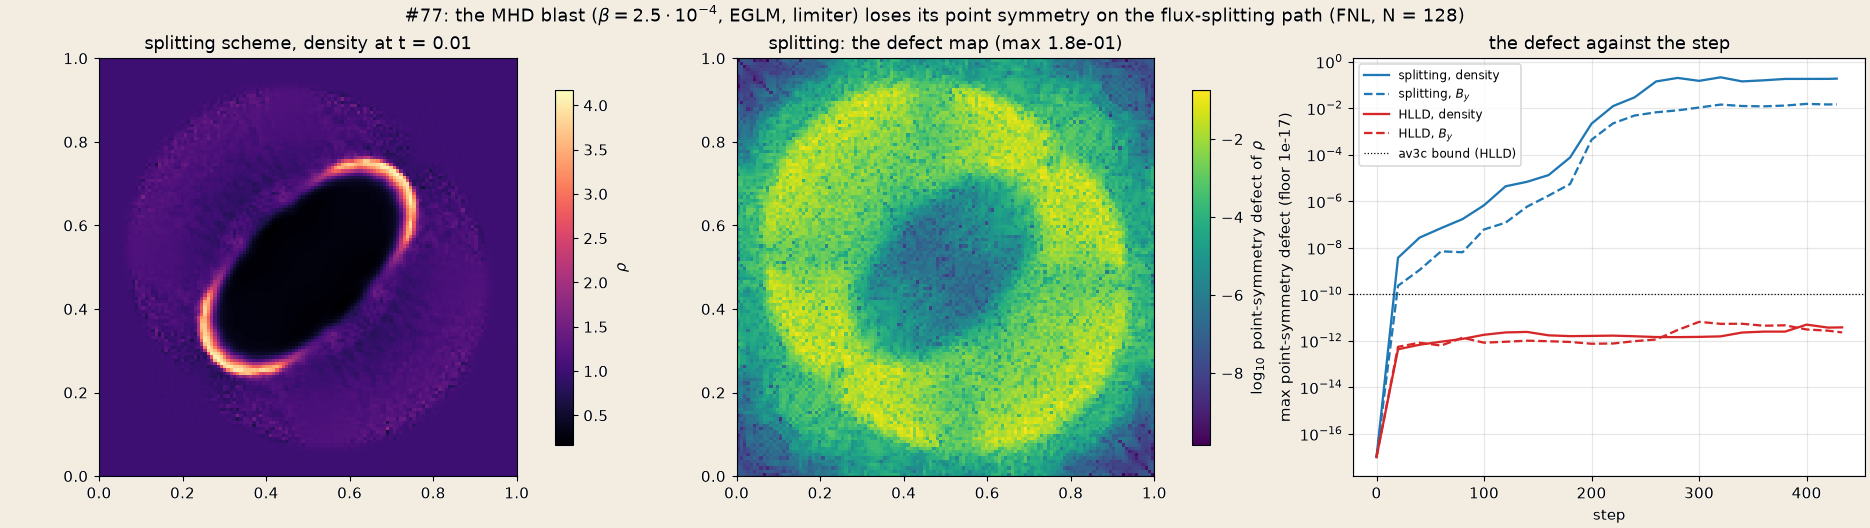
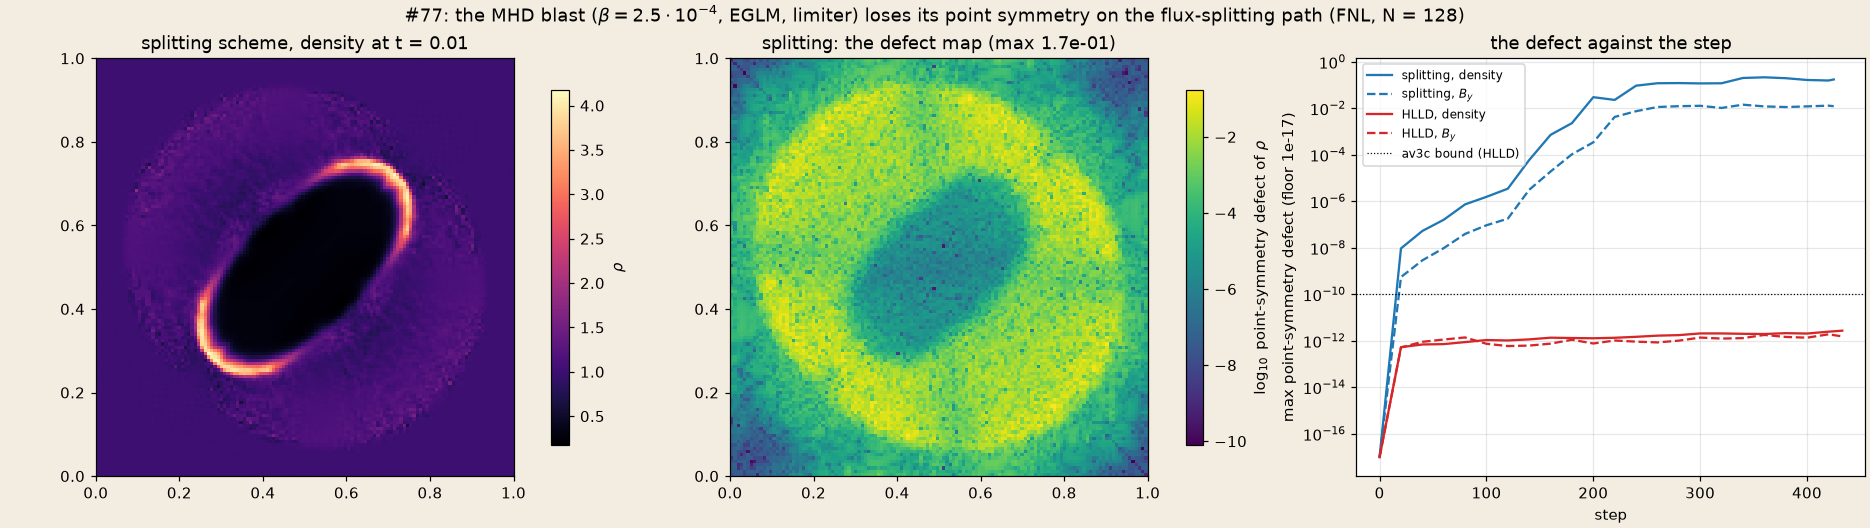
docs(flume): the limited-blast verification pages rerun after the stage step of #134 D4
#134 D4 limits each SSP-54 stage for its own forward-Euler step. Three
verification pages besides the positivity limiter's run the limited
Balsara-Spicer blast on SSP-54 and quoted pre-D4 numbers.

- runtime-amr/accuracy.md: av3b (shock radius 0.4297 on every
  half-axis, 0 finest cells from uniform-128; rho drift 1.1e-16; rE
  5.386e-5 against 5.388e-5) and av3c (symmetry 4.6e-12 tracked, 4.8e-12
  uniform; FNL 6.0e-12, 2.7e-12) rerun; av8 not rerun.
- runtime-amr/mhd-blast-symmetry.md: mhd-blast-symmetry.png redrawn
  from make_doc_runs.sh blast77 on FNL (the splitting defect reaches 0.1
  by step 260 and stays at 0.1-0.22; HLLD 5e-13 to 3e-12), its caption,
  the step counts (425 splitting, 433 HLLD), the av3c bound table; the
  probes table marked as measured before #134 D4.
- mhd/quadtree-amr.md: the blast row, the check table (CPU and FNL),
  and the finding rewritten from an investigation of the octree z
  spread, which now fails the leg's 1e-4 bound (1.9e-3 CPU, 2.5e-3
  FNL): the octree's identical layers start apart at round-off (the
  tricubic seam ghosts), the splitting scheme's low-beta instability
  grows the difference by an e-fold about every 10 steps (HLLD stays at
  1e-10), and the limiter amplifies it erratically when the outer shock
  crosses the 2:1 seam. #134 D4 changes that sample (2.3e-5 before),
  not the growth before the crossing (factor <= 2 at step 88); SSP-33,
  bitwise under D4, also ends above the bound (1.8e-4). The bound is
[…]

diff --git a/docs/applications/flume/verification/mhd/quadtree-amr.md b/docs/applications/flume/verification/mhd/quadtree-amr.md
@@ -70,16 +70,16 @@ FLUME_EXE=$PWD/../../../../../exe/adam_flume_fnl quadtree/check.sh    # FNL
 | Leg | Quadtree `nk = 1` against the octree | Octree z spread | Quadtree `nk = 4` z spread |
 |---|---|---|---|
 | Orszag–Tang, $32^2$ + $[0.25, 0.75]^2$ refined, $t = 0.2$ | $4.1\cdot10^{-12}$ ($\psi$; $\le 3\cdot10^{-13}$ elsewhere) | $5.7\cdot10^{-12}$ | 0 |
-| Balsara–Spicer blast, limiter on, $t = 0.006$ | $1.9\cdot10^{-5}$ ($\psi$), $3.7\cdot10^{-6}$ ($\rho$) | $2.8\cdot10^{-5}$, $9.3\cdot10^{-6}$ | — |
+| Balsara–Spicer blast, limiter on, $t = 0.006$ | $3.5\cdot10^{-4}$ ($\psi$), $1.0\cdot10^{-4}$ ($\rho$) | $1.9\cdot10^{-3}$, $3.0\cdot10^{-4}$ | — |
 
 | Check | Bound | CPU | FNL |
 |---|---|---|---|
 | `ot`: quadtree `nk = 1` against the octree, relative | $10^{-10}$ | $4.1\cdot10^{-12}$ | $6.4\cdot10^{-12}$ |
 | `ot`: octree $z$ spread | $10^{-10}$ | $5.7\cdot10^{-12}$ | pass |
 | `ot`: quadtree `nk = 4` $z$ spread | 0 (bitwise) | 0 | 0 |
-| `blast`: octree $z$ spread | $10^{-4}$ | $2.8\cdot10^{-5}$ ($\psi$) | pass |
-| `blast`: quadtree against the octree, per variable | $\max(10^{-10}, 2\times$ the octree $z$ spread$)$ | ratio 0.40 to 0.80 | ratio 0.87 to 1.02 |
-| `blast`: limited stages | reported | 579 | 579 |
+| `blast`: octree $z$ spread | $10^{-4}$ | $1.9\cdot10^{-3}$ ($\psi$): fails since #134 D4 ([findings](#findings)) | $2.5\cdot10^{-3}$: the same |
+| `blast`: quadtree against the octree, per variable | $\max(10^{-10}, 2\times$ the octree $z$ spread$)$ | ratio 0.09 to 0.33 | ratio 0.56 to 1.06 |
+| `blast`: limited stages | reported | 578 | 578 |
 
 Related cases: [Orszag–Tang](./orszag-tang) is the `--amr` problem of MV-12; [positivity limiter](./positivity-limiter)
 PV-5 runs the limited blast across octree seams; [forward-facing step](../euler/forward-facing-step) runs a forest on
@@ -90,9 +90,17 @@ quadtrees; [ghost probe](../infrastructure/ghost-probe) checks every seam ghost 
 - The runs agree to round-off, not bit for bit: an octree restriction averages 8 fine cells (two identical $z$ layers),
   a quadtree 4, and even the octree's identical layers differ at round-off, its tricubic weights depending on the $z$
   sub-position.
-- In the blast the limiter's switches amplify that round-off: the octree's own layers drift apart by
-  $2.8\cdot10^{-5}$, and the quadtree differs from the octree by no more than that spread (the same 579 limited stages
-  on both backends). The leg therefore bounds the agreement by twice the reference spread, not by a fixed tolerance.
+- In the blast the octree's own layers drift apart: the tricubic seam ghosts start them apart at round-off, the
+  flux-splitting scheme's low-β grid-scale instability (the one of [the MHD blast symmetry
+  study](../runtime-amr/mhd-blast-symmetry)) grows the difference by an e-fold about every 10 steps, and when the outer
+  shock reaches the 2:1 seam the limiter's switches amplify it erratically, by an order of magnitude from one step to
+  the next. At $t = 0.006$ the spread is $1.9\cdot10^{-3}$ ($\psi$) since [#134](https://github.com/szaghi/adam/issues/134)
+  D4, $2.3\cdot10^{-5}$ before it, and $1.8\cdot10^{-4}$ on SSP-33, which D4 leaves bitwise: D4 changes the sample at
+  the seam crossing, not the growth before it (a factor $\le 2$ at step 88). On `weno-riemann` HLLD the spread stays
+  at $10^{-10}$. The quadtree differs from the octree by less than that spread (ratio 0.09 to 0.33 on the CPU, 0.56 to 1.06 on
+  FNL, whose octree spread is $2.5\cdot10^{-3}$; the same 578 limited stages): the leg bounds the agreement by twice the reference spread, not by a fixed tolerance. The
+  fixed bound on the octree spread itself ($10^{-4}$, 3.5 times the single pre-D4 measurement) lies inside the
+  spread's variability and fails since D4; its value is under review.
 - FNL gives the same picture on Orszag–Tang ($6.4\cdot10^{-12}$ against the octree, $z$ spread 0 with `nk = 4`).
 - The `nk = 4` quadtree computes the $z$ fluxes and keeps the solution $z$-invariant bit for bit. Its $z$ cells enter
   the time step, so its step sequence differs and it is compared with itself only.

diff --git a/docs/applications/flume/verification/runtime-amr/mhd-blast-symmetry.md b/docs/applications/flume/verification/runtime-amr/mhd-blast-symmetry.md
@@ -33,7 +33,7 @@ rotation), a grid-scale instability, or a backend divergence hidden behind a sym
 | Grid | the uniform blast of av3b: quadtree, $N = 128$ ($8 \times 8$ blocks of $16^2$ cells); $N = 64$ and $256$ in the resolution probe |
 | Ranks | 2 |
 | Initial condition | [`riemann-problem`](../../initial-conditions#riemann-problem-piecewise-constant-axis-aligned-regions) regions: $\rho = 1$; $p = 1000$ in the disc $r < 0.1$ around $(0.5, 0.5)$ (sampled at the cell centres of $N = 64$), $p = 0.1$ outside; $\mathbf B = 100/\sqrt{4\pi}$ at 45°, $\beta = 2.5\cdot10^{-4}$ outside the hot disc |
-| Final time | $t = 0.01$ (428 steps at $N = 128$); a checkpoint every 10 or 20 steps |
+| Final time | $t = 0.01$ (425 steps at $N = 128$ on the splitting scheme, 433 on HLLD); a checkpoint every 10 or 20 steps |
 | Asymmetry of a field | $\max\lvert f(\mathbf x) - s f(\mathbf 1 - \mathbf x)\rvert / \max\lvert f\rvert$, $s = \pm1$ the parity of the field |
 
 ## Input files
@@ -58,7 +58,10 @@ The probes of the table below are investigation runs, not legs of a script.
 
 ![The MHD blast point-symmetry defect](/flume/mhd-blast-symmetry.png)
 
-*The uniform $N = 128$ blast on FNL (2 ranks), a checkpoint every 20 steps. Left: the splitting scheme's density at $t = 0.01$. Centre: its point-symmetry defect $|\rho(\mathbf x) - \rho(\mathbf 1 - \mathbf x)| / \max\rho$, spread over the whole blast, not along the grid axes. Right: the largest defect of $\rho$ and $B_y$ against the step: on the splitting scheme it leaves round-off by step 20, grows exponentially and saturates at 0.18 (this measure) by step 260; on `weno-riemann` HLLD it stays near $10^{-12}$, under the av3c bound.*
+*The uniform $N = 128$ blast on FNL (2 ranks), a checkpoint every 20 steps. Left: the splitting scheme's density at $t = 0.01$. Centre: its point-symmetry defect $|\rho(\mathbf x) - \rho(\mathbf 1 - \mathbf x)| / \max\rho$, spread over the whole blast, not along the grid axes. Right: the largest defect of $\rho$ and $B_y$ against the step: on the splitting scheme it leaves round-off by step 20, grows exponentially, reaches 0.1 (this measure) by step 260 and stays between 0.1 and 0.22 to the end (0.17); on `weno-riemann` HLLD it stays between $5\cdot10^{-13}$ and $3\cdot10^{-12}$, under the av3c bound. Rerun after [#134](https://github.com/szaghi/adam/issues/134) D4 (each SSP-54 stage limited for its own forward-Euler step): the same picture as before it.*
+
+The probes below were measured before #134 D4 (investigation runs, not rerun); the figure above and the av3c bound
+below were rerun after it.
 
 | Probe | Result |
 |---|---|
@@ -76,8 +79,8 @@ The bound that closes the study (av3c, `weno-riemann` with `riemann_solver = hll
 
 | Check | Bound | CPU | FNL |
 |---|---|---|---|
-| point symmetry, uniform $N = 128$ | $10^{-10}$ | $6.1\cdot10^{-12}$ | $2.6\cdot10^{-12}$ |
-| point symmetry, tracked (3 regrids) | $10^{-10}$ | $3.3\cdot10^{-12}$ | $2.6\cdot10^{-12}$ |
+| point symmetry, uniform $N = 128$ | $10^{-10}$ | $4.8\cdot10^{-12}$ | $2.7\cdot10^{-12}$ |
+| point symmetry, tracked (3 regrids) | $10^{-10}$ | $4.6\cdot10^{-12}$ | $6.0\cdot10^{-12}$ |
 | shock radius on the four half-axes | — | the same on both runs | — |
 
 Related cases: the regridded blast is av3b and av3c of [AV](./accuracy); the limiter itself is the

diff --git a/docs/applications/flume/verification/runtime-amr/accuracy.md b/docs/applications/flume/verification/runtime-amr/accuracy.md
@@ -87,14 +87,16 @@ The bounds:
 | av7 | bow-shock stand-off within 2 finest cells of uniform at V6's finest level; mirror symmetry 1e-10; positivity (the init-AMR V6 run's stand-off reported) |
 | av8 | the same regrids; per field, the tracked CPU–FNL difference ≤ 2× the uniform-fine runs' (or ≤ 1e-10) |
 
-The measured values (np 2; CPU numbers, FNL the same within the av8 agreement):
+The measured values (np 2; CPU numbers, FNL the same within the av8 agreement; av3b and av3c rerun after
+[#134](https://github.com/szaghi/adam/issues/134) D4, which limits each SSP-54 stage for its own forward-Euler step,
+without av8):
 
 | Leg | Tracked run | Reference | Measured | Regrids | Cost (tracked / uniform-fine) |
 |---|---|---|---|---|---|
 | av2 | L1(ρ) 1.039e-5 | uniform-128 8.43e-6; uniform-32 1.91e-3 | 1.23× fine, 0.005× coarse | 4 | 28 blocks / 64; 58 s / 67 s |
 | av3a | L1(ρ) 3.5392e-3 | uniform-192 3.5420e-3 | 0.999× (2.56× before #76); contact and shock on finest cells | 7 | 144 cells / 192; 32 s / 33 s |
-| av3b | shock radius 0.4219–0.4375 | uniform-128 0.4297 | 1 finest cell on each half-axis; ρ drift 5.6e-16, ρE 5.33e-5 against 5.35e-5 | 3 | ends fully refined; 115 s / 122 s |
-| av3c | symmetry 3.3e-12 (FNL 2.6e-12) | uniform-128 6.1e-12 (FNL 2.6e-12) | both within 1e-10; shock radius 0.4297 on every half-axis, 0 finest cells from uniform | 3 | 128 s / 155 s |
+| av3b | shock radius 0.4297 on every half-axis | uniform-128 0.4297 | 0 finest cells on each half-axis; ρ drift 1.1e-16, ρE 5.386e-5 against 5.388e-5 | 3 | ends fully refined; 120 s / 136 s |
+| av3c | symmetry 4.6e-12 (FNL 6.0e-12) | uniform-128 4.8e-12 (FNL 2.7e-12) | both within 1e-10; shock radius 0.4297 on every half-axis, 0 finest cells from uniform | 3 | 115 s / 136 s |
 | av4 GLM | E_B 0.943937, ⟨\|B_z\|⟩ 5.75e-4, div B 2.56e-4 | 0.943953, 6.86e-4, 2.76e-4 | ⟨\|B_z\|⟩ 0.84×, div B 0.93×; at the regrids max \|div B\| changes by ×0.94–1.05 | 78 | 40–46 blocks / 64; 237 s / 244 s |
 | av4 EGLM | E_B 0.943769, ⟨\|B_z\|⟩ 2.37e-5, div B 2.58e-4 | 0.943774, 2.72e-6, 2.72e-4 | ⟨\|B_z\|⟩ 8.7× (reported, #78), div B 0.95× | 82 | 242 s / 250 s |
 | av6 | np 2 and 3 against np 1 (FNL: np 2, two GPUs) | — | the same 4 regrids, fields bitwise on both backends | 4 | 97 / 55 / 48 s |
